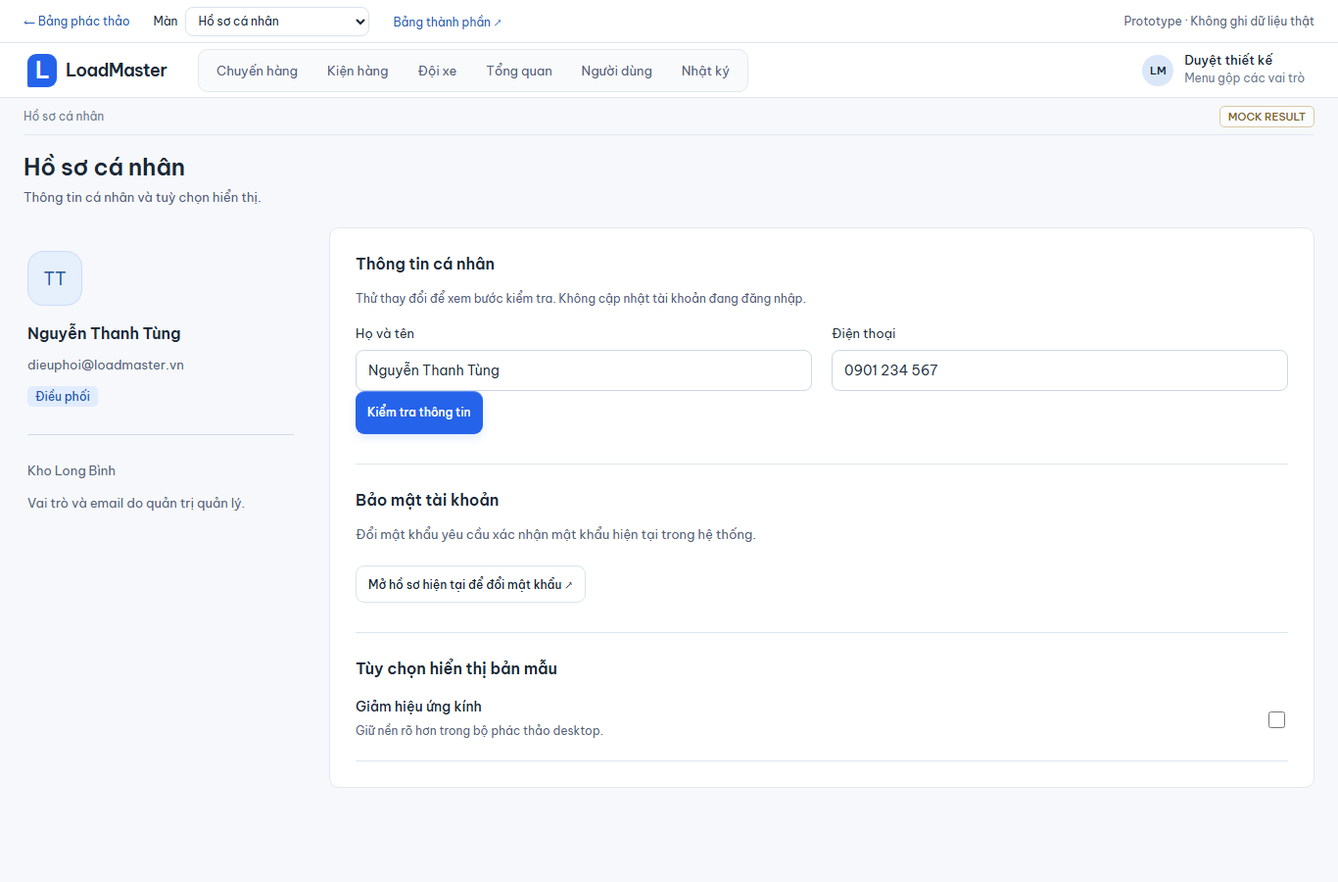
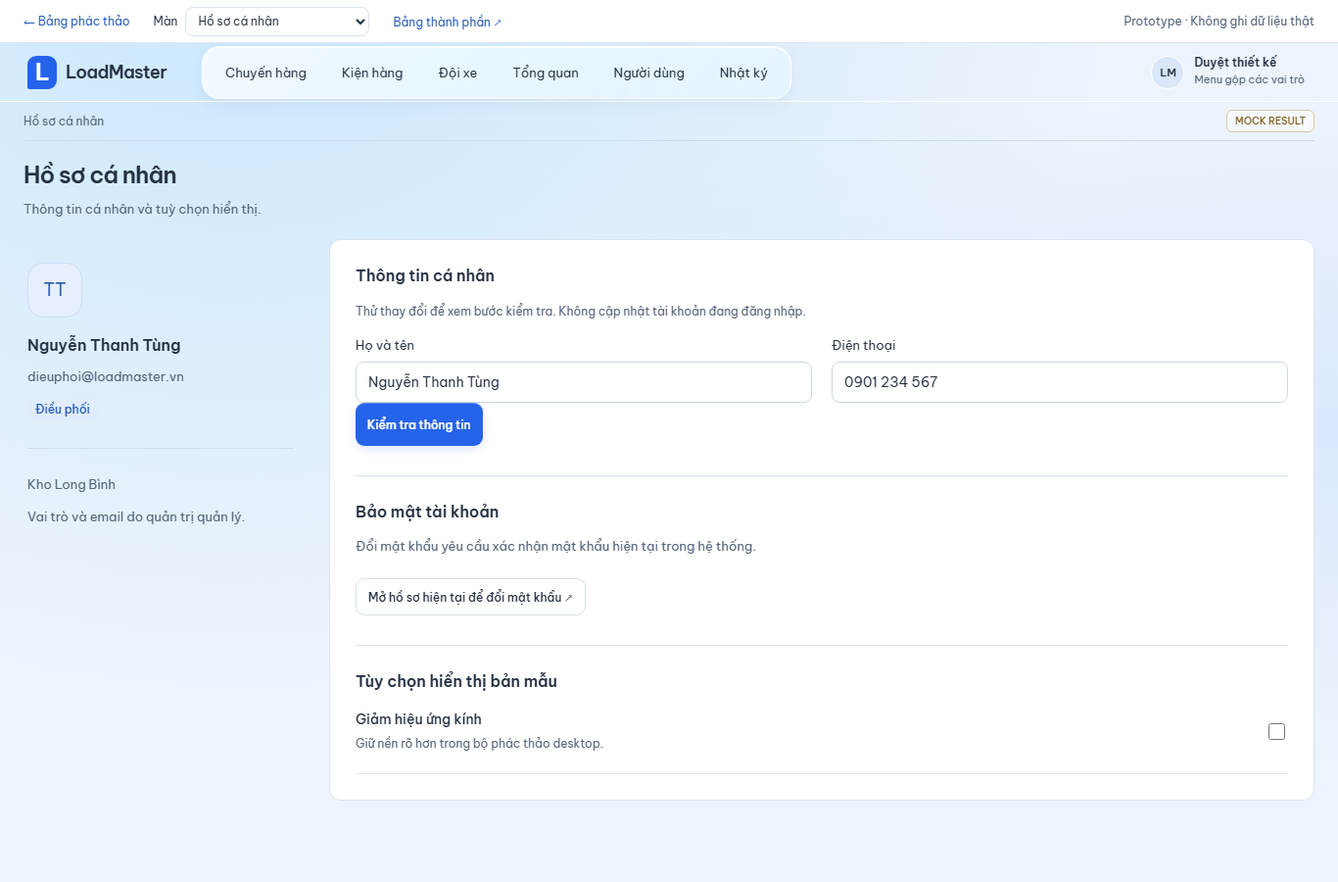
Revert "design(v2): polish màn Danh sách chuyến cho vận hành thật"
This reverts commit e58b79767d31db504e77cd240d4d9d727fd5e893.

diff --git a/design/v2/screens.css b/design/v2/screens.css
@@ -1,129 +1,72 @@
-/* Token cục bộ của bộ màn desktop. Không ghi đè token production. */
-:where(.screen-suite) {
-  --page: #f6f8fb; --surface: #fff; --subtle: #f9fafc;
-  --edge: #e3e8f0; --edge-strong: #d3dbe6;
-  --ink-1: #1b2736; --ink-2: #51607a; --ink-3: #6b7a90;
-  --brand: #2563eb; --brand-hover: #1d4ed8; --brand-soft: #eff5ff;
-}
-.screen-suite { background: var(--page); color: var(--ink-1); font-size: 14px; }
-.screen-suite .badge { padding: 3px 8px; border-radius: 5px; font-size: 12px; font-weight: 500; }
-.screen-suite .badge.mock { font-size: 11px; }
-.screen-suite :focus-visible { outline: 2px solid var(--brand); outline-offset: 2px; border-radius: 4px; }
-/* Ô tìm đã có vòng focus ở lớp bọc — không vẽ thêm vòng thứ hai quanh input. */
-.screen-suite .search input:focus-visible { outline: none; }
+.screen-suite { background: #edf3fb; color: var(--ink); font-size: 14px; }
 .suite-review { min-height: 44px; display: flex; align-items: center; gap: 24px; padding: 6px 24px; background: white; border-bottom: 1px solid var(--line); font-size: 12px; }
 .suite-review > span { margin-left: auto; color: var(--muted); }
 .suite-review label { display: flex; align-items: center; gap: 8px; }
 .suite-review select { max-width: 240px; min-height: 30px; }
 .suite-review > a { color: #245ab7; }
-.suite-shell { min-height: calc(100vh - 44px); background: var(--page); }
-.suite-rail { display: flex; align-items: center; gap: 28px; height: 56px; padding: 0 24px; background: var(--surface); border-bottom: 1px solid var(--edge); }
+.suite-shell { min-height: calc(100vh - 44px); background: radial-gradient(ellipse at 18% -12%,#c9e7ff,transparent 56%),radial-gradient(ellipse at 102% 46%,#dbe8ff,transparent 52%),#edf4fb; }
+.suite-rail { display: flex; align-items: center; gap: 32px; height: 60px; padding: 6px 24px; border-bottom: 1px solid #fff; }
 .suite-rail .brand { flex-shrink: 0; padding: 0 4px; }
 .suite-caption { font-size: 12px; color: var(--muted); line-height: 1.6; }
-.suite-nav { display: flex; gap: 2px; padding: 4px; border-radius: 10px; background: var(--subtle); border: 1px solid var(--edge); box-shadow: none; }
-.suite-nav a { min-height: 34px; padding: 0 14px; gap: 0; border-radius: 7px; white-space: nowrap; font-size: 13px; color: var(--ink-2); transition: background 130ms, color 130ms; }
-.suite-nav a:hover { background: #fff; color: var(--ink-1); }
-.suite-nav [aria-current] { background: var(--surface); border: 1px solid var(--edge-strong); color: var(--brand); font-weight: 600; box-shadow: none; }
+.suite-nav { display: flex; padding: 5px; border-radius: 18px; background: linear-gradient(130deg,#ffffffc2,#ffffff45); border: 1px solid #fff; backdrop-filter: blur(16px) saturate(1.35); box-shadow: 0 6px 16px #33517a10,inset 0 1px 0 #fff; }
+.suite-nav a { min-height: 42px; padding: 0 18px; gap: 0; border-radius: 13px; white-space: nowrap; }
+.suite-nav a:hover { background: #ffffff80; }
+.suite-nav [aria-current] { background: linear-gradient(125deg,#fffffff0,#ffffff75); border: 1px solid #fff; box-shadow: 0 3px 8px #46658718; }
 .suite-person { margin-left: auto; display: flex; align-items: center; gap: 10px; padding: 6px 10px; border-radius: 12px; color: inherit; flex-shrink: 0; }
-.suite-person:hover { background: var(--subtle); }
-.suite-person strong { display: block; font-size: 13px; font-weight: 500; }
-.suite-person small { display: block; color: var(--ink-3); font-size: 12px; margin-top: 1px; }
+.suite-person:hover { background: #ffffff7a; }
+.suite-person strong { display: block; font-size: 12px; }
+.suite-person small { display: block; color: var(--muted); font-size: 11px; margin-top: 2px; }
 .suite-work { min-width: 0; }
-.suite-top { display: flex; align-items: center; justify-content: space-between; min-height: 38px; margin: 0 24px; border-bottom: 1px solid var(--edge); font-size: 12px; color: var(--ink-3); }
-.suite-main { padding: 16px 24px 28px; }
-.suite-title { display: flex; justify-content: space-between; align-items: flex-start; margin-bottom: 16px; gap: 24px; }
-.suite-title h1 { font-size: 21px; line-height: 1.35; font-weight: 600; letter-spacing: -.2px; margin: 0; }
-.suite-lede { margin: 5px 0 0; max-width: 68ch; color: var(--ink-2); font-size: 13px; line-height: 1.6; }
-.suite-title .button { min-height: 38px; padding: 0 16px; border-radius: 8px; font-size: 13px; font-weight: 600; flex-shrink: 0; }
-/* Khối tổng hợp: chỉ số đếm được, không nhét ngày vào làm KPI thứ tư. */
-.summary-block { display: flex; align-items: center; min-height: 64px; padding: 10px 20px; border: 1px solid var(--edge); border-radius: 10px; background: var(--surface); margin-bottom: 16px; }
-.summary-block.has-note > p { flex: 1 1 auto; margin: 0; padding-left: 24px; border-left: 1px solid var(--edge); font-size: 12px; color: var(--ink-3); line-height: 1.6; }
-.summary-block > div { flex: 0 1 200px; display: grid; gap: 2px; align-content: center; padding: 0 24px; border-left: 1px solid var(--edge); }
+.suite-top { display: flex; align-items: center; justify-content: space-between; min-height: 40px; margin: 0 24px; border-bottom: 1px solid #c9dced; font-size: 12px; color: var(--muted); }
+.suite-main { padding: 18px 24px 28px; }
+.suite-title { display: flex; justify-content: space-between; align-items: flex-end; margin-bottom: 20px; gap: 24px; }
+.suite-title h1 { font-size: 24px; margin: 0; }
+.suite-lede { margin: 6px 0 0; max-width: 62ch; color: var(--muted); font-size: 13px; line-height: 1.7; }
+.suite-title .button { min-height: 40px; font-size: 14px; flex-shrink: 0; }
+/* Khối tổng hợp dùng chung: kính, số cùng màu mực, đơn vị nhỏ hơn. */
+.summary-block { display: flex; padding: 18px 24px; border: 1px solid #fff; border-radius: 16px; background: var(--glass-fill); box-shadow: var(--glass-edge),var(--glass-lift); margin-bottom: 22px; }
+.summary-block > div { flex: 1; display: grid; gap: 6px; align-content: start; padding: 0 22px; border-left: 1px solid #ccdbeb; }
 .summary-block > div:first-child { padding-left: 0; border-left: 0; }
-.summary-block span { color: var(--ink-2); font-size: 13px; order: 2; }
-.summary-block strong { font-size: 22px; font-weight: 600; color: var(--ink-1); font-variant-numeric: tabular-nums; line-height: 1.2; order: 1; }
-.summary-block strong em { font-style: normal; font-size: 13px; font-weight: 400; color: var(--ink-2); margin-left: 4px; }
-.summary-block small { color: var(--ink-3); font-size: 12px; order: 3; }
-.source-note { margin: 0 0 20px; color: var(--ink-3); font-size: 12px; line-height: 1.6; }
+.summary-block span { color: var(--muted); font-size: 12px; }
+.summary-block strong { font-family: 'JetBrains Mono',monospace; font-size: 28px; font-weight: 500; color: var(--ink); font-variant-numeric: tabular-nums; line-height: 1.15; }
+.summary-block strong em { font-style: normal; font-size: 13px; color: var(--muted); margin-left: 5px; }
+.summary-block small { color: var(--muted); font-size: 11px; line-height: 1.6; }
+.summary-block.has-note > p { flex: 1.3; margin: 0; padding-left: 22px; border-left: 1px solid #ccdbeb; font-size: 12px; color: var(--muted); line-height: 1.8; align-self: center; }
 /* Bề mặt đọc: nền rõ, không kính lồng trong kính. */
-.surface-panel { background: var(--surface); border: 1px solid var(--edge); border-radius: 10px; }
-.panel-head { display: flex; align-items: center; justify-content: space-between; gap: 16px; padding: 14px 16px; border-bottom: 1px solid var(--edge); }
-.panel-head h2 { font-size: 15px; font-weight: 600; margin: 0; }
-/* ---- Danh sách chuyến: bảng là nhân vật chính ---- */
-.dispatch-grid { display: grid; grid-template-columns: minmax(0,1fr) 300px; gap: 16px; align-items: start; }
-.paper { background: var(--surface); border: 1px solid var(--edge); border-radius: 10px; min-width: 0; overflow: hidden; }
-
-/* Thanh công cụ: tìm ~45%, mỗi ô lọc có nhãn, mật độ nói rõ là mật độ. */
-.list-tools { display: flex; align-items: flex-end; gap: 12px; padding: 12px 16px; border-bottom: 1px solid var(--edge); }
-.list-tools .search { flex: 0 1 45%; min-width: 220px; min-height: 36px; border-color: var(--edge-strong); border-radius: 8px; color: var(--ink-3); }
-.list-tools .search input { font-size: 13px; color: var(--ink-1); }
-.list-tools .search input::placeholder { color: var(--ink-3); }
-.tool-field { display: grid; gap: 4px; font-size: 12px; color: var(--ink-2); }
-.tool-field select { min-width: 140px; min-height: 36px; border-radius: 8px; border-color: var(--edge-strong); font-size: 13px; color: var(--ink-1); }
-.tool-density { margin-left: auto; }
-.tool-density select { min-width: 120px; }
-
-/* Bộ lọc đang bật phải nhìn thấy được, không để người dùng quên. */
-.filter-context { display: flex; align-items: center; flex-wrap: wrap; gap: 8px; padding: 10px 16px; background: var(--brand-soft); border-bottom: 1px solid var(--edge); font-size: 12px; }
-.filter-context > span { color: var(--ink-2); }
-.filter-chip { display: inline-flex; align-items: center; gap: 6px; min-height: 26px; padding: 0 8px; border: 1px solid #c7dbfb; border-radius: 6px; background: var(--surface); font-size: 12px; color: var(--ink-1); }
-.filter-chip:hover { border-color: var(--brand); color: var(--brand); }
-.filter-chip span { color: var(--ink-3); font-size: 14px; line-height: 1; }
-.filter-clear { background: none; padding: 0 4px; font-size: 12px; color: var(--brand); text-decoration: underline; }
-
+.surface-panel { background: #fff; border: 1px solid #dbe5f0; border-radius: 14px; }
+.panel-head { display: flex; align-items: center; justify-content: space-between; gap: 16px; padding: 16px 20px; border-bottom: 1px solid #e6edf5; }
+.panel-head h2 { font-size: 15px; margin: 0; }
+.summary-strip { display: grid; grid-template-columns: 1fr 1fr 1fr 1.4fr; padding: 22px 26px; border: 1px solid white; border-radius: 16px; background: var(--glass-fill); box-shadow: var(--glass-edge),var(--glass-lift); margin-bottom: 24px; gap: 24px; }
+.summary-strip > div { display: grid; gap: 8px; padding-right: 20px; border-right: 1px solid #cad9e9; }
+.summary-strip span { color: var(--muted); font-size: 12px; }
+.summary-strip strong { font-size: 30px; font-weight: 600; font-variant-numeric: tabular-nums; }
+.summary-strip > p { font-size: 13px; align-self: center; line-height: 1.8; }
+.summary-strip small { display: block; color: var(--muted); font-size: 11px; }
+.dispatch-grid { display: grid; grid-template-columns: minmax(0,1fr) 220px; gap: 20px; }
+.paper { background: white; border: 1px solid #dce5ef; border-radius: 12px; min-width: 0; overflow: hidden; }
+.list-tools { display: flex; gap: 10px; padding: 16px; border-bottom: 1px solid var(--line); }
+.list-tools .search input { font-size: 13px; }
 .suite-table-scroll { overflow: auto; }
-.trip-table { min-width: 760px; }
-.trip-table th { height: 40px; padding: 0 14px; background: var(--subtle); border-block: 1px solid var(--edge); font-size: 12px; font-weight: 600; color: var(--ink-2); }
-.trip-table td { padding: 12px 14px; border-bottom: 1px solid var(--edge); font-size: 13px; vertical-align: middle; }
-.trip-table tbody tr { transition: background 120ms; }
-.trip-table tbody tr:hover { background: var(--subtle); }
-.trip-table th:first-child, .trip-table td:first-child { padding-left: 16px; }
-.trip-table th:first-child { width: 34%; }
-.trip-table .col-date { width: 108px; white-space: nowrap; }
-.trip-table .col-vehicle { width: 20%; }
-.trip-table td small { display: block; font-size: 12px; color: var(--ink-3); margin-top: 3px; line-height: 1.5; }
-.trip-table td strong { font-size: 13px; font-weight: 500; color: var(--ink-1); }
-/* Cột số căn phải để so sánh theo cột dọc. */
-.trip-table th.num, .trip-table td.num { text-align: right; width: 118px; }
-.trip-table td.num strong { font-variant-numeric: tabular-nums; }
-.trip-table td.num strong em { font-style: normal; font-weight: 400; color: var(--ink-2); }
-.trip-table th.num button { flex-direction: row-reverse; }
-/* Mũi tên sắp xếp: mờ khi chưa dùng, hiện khi hover, giữ khi đang sắp. */
-.trip-table th.sortable button { color: inherit; font-weight: inherit; min-height: 24px; }
-.trip-table th.sortable button span { opacity: 0; color: var(--ink-3); transition: opacity 120ms; }
-.trip-table th.sortable:hover button span, .trip-table th.sortable button:focus-visible span { opacity: 1; }
-.trip-table th[aria-sort=ascending] button, .trip-table th[aria-sort=descending] button { color: var(--brand); }
-.trip-table th[aria-sort=ascending] button span, .trip-table th[aria-sort=descending] button span { opacity: 1; color: var(--brand); }
-.trip-table th[aria-sort=ascending] button span::before { content: '↑'; }
-.trip-table th[aria-sort=descending] button span::before { content: '↓'; }
-.trip-table th[aria-sort=ascending] button span, .trip-table th[aria-sort=descending] button span { font-size: 0; }
-.trip-table th[aria-sort] button span::before { font-size: 12px; }
-.trip-row-link { display: grid; gap: 3px; text-align: left; background: none; padding: 0; line-height: 1.45; }
-.trip-row-link strong { white-space: normal; font-size: 13px; font-weight: 500; }
-.trip-row-link:hover strong { color: var(--brand); text-decoration: underline; text-underline-offset: 2px; }
-.trip-row-link .mono { font-size: 12px; color: var(--ink-3); }
-.trip-table[data-density=compact] td { padding-block: 7px; }
-.trip-table[data-density=roomy] td { padding-block: 18px; }
-.trip-table .empty { padding: 32px 16px; text-align: center; color: var(--ink-2); }
-.list-foot { padding: 12px 16px; color: var(--ink-2); font-size: 12px; border-top: 1px solid var(--edge); }
-
-/* Rail "Cần xử lý": bề mặt riêng, đếm được việc, mỗi mục có lối đi tiếp. */
-.attention-panel { background: var(--surface); border: 1px solid var(--edge); border-radius: 10px; overflow: hidden; }
-.attention-panel > summary { display: flex; align-items: center; gap: 8px; min-height: 44px; padding: 0 16px; font-size: 14px; font-weight: 600; color: var(--ink-1); cursor: pointer; list-style: none; }
-.attention-panel > summary::-webkit-details-marker { display: none; }
-.attention-panel > summary b { display: inline-grid; place-items: center; min-width: 20px; height: 20px; padding: 0 6px; border-radius: 10px; background: #fdf0d6; color: #8a5200; font-size: 12px; font-weight: 600; }
-.attention-body { padding: 0 16px 16px; }
-.attention-lede { margin: 0 0 12px; font-size: 12px; line-height: 1.6; color: var(--ink-2); }
-.attention-list { list-style: none; margin: 0 0 12px; padding: 0; display: grid; gap: 12px; }
-.attention-list li { padding: 12px; border: 1px solid var(--edge); border-radius: 8px; background: var(--subtle); }
-.attention-top { display: flex; align-items: center; justify-content: space-between; gap: 8px; margin-bottom: 6px; }
-.attention-top .mono { font-size: 12px; color: var(--ink-2); }
-.attention-list p { margin: 0 0 8px; font-size: 13px; line-height: 1.55; color: var(--ink-1); }
-.attention-action { background: none; padding: 0; font-size: 13px; font-weight: 500; color: var(--brand); }
-.attention-action:hover { text-decoration: underline; text-underline-offset: 2px; }
-.attention-body > .button { width: 100%; min-height: 36px; border-radius: 8px; font-size: 13px; }
-.quiet-note { font-size: 12px; line-height: 1.7; color: var(--ink-2); margin: 16px 0; }
-.quiet-note strong { display: block; color: var(--ink-1); margin-bottom: 6px; }
+.trip-table { min-width: 710px; }
+.trip-table th { font-size: 12px; padding: 14px; }
+.trip-table td { font-size: 13px; padding: 16px 14px; }
+.trip-table th:first-child { width: 38%; }
+.trip-table th:nth-child(2) { width: auto; }
+.trip-table td small { display: block; font-size: 11px; color: var(--muted); margin-top: 6px; }
+.trip-table td strong { font-weight: 500; white-space: nowrap; }
+.trip-row-link { display: grid; gap: 8px; text-align: left; background: none; padding: 0; line-height: 1.5; }
+.trip-row-link strong { white-space: normal !important; }
+.trip-row-link .mono { font-size: 11px; color: var(--muted); }
+.trip-table.roomy td { padding-block: 26px; }
+.list-foot { padding: 14px 16px; color: var(--muted); font-size: 12px; }
+.attention-panel { padding-top: 6px; }
+.attention-panel h2 { font-size: 16px; line-height: 1.5; margin: 8px 0 20px; }
+.attention-item { display: grid; gap: 8px; padding: 16px 0; border-top: 1px solid #d6e1ed; background: none; text-align: left; line-height: 1.7; }
+.attention-item strong { font-size: 13px; font-weight: 500; }
+.attention-item span { font-size: 12px; color: var(--muted); }
+.attention-item b { font-size: 12px; color: #245ab7; font-weight: 500; }
+.quiet-note { font-size: 12px; line-height: 1.8; color: var(--muted); margin: 16px 0; }
+.quiet-note strong { display: block; color: var(--ink); margin-bottom: 6px; }
 .suite-dialog { border: 1px solid #d2deeb; background: white; color: var(--ink); border-radius: 16px; width: min(580px,calc(100vw - 24px)); max-height: 88dvh; padding: 24px; }
 .suite-dialog::backdrop { background: #182c4d66; }
 .suite-dialog header { display: flex; justify-content: space-between; align-items: center; gap: 16px; margin-bottom: 20px; }
@@ -269,11 +212,7 @@ summary { cursor: pointer; font-size: 13px; }
 .queue-empty { padding: 32px 16px; text-align: center; }
 .queue-empty p { color: var(--muted); line-height: 1.8; font-size: 14px; margin-top: 12px; }
 .full-button { width: 100%; }
-@media(min-width:1500px) { .dispatch-grid { grid-template-columns: minmax(0,1fr) 320px; } }
-@media(max-width:1439px) { .dispatch-grid { grid-template-columns: minmax(0,1fr) 260px; } }
-@media(max-width:1279px) { .dispatch-grid { grid-template-columns: 1fr; } .attention-panel { order: -1; } }
-@media(max-width:1200px) { .form-layout,.optimization-layout { grid-template-columns: minmax(0,1fr) 230px; gap: 20px; } .planner-grid { grid-template-columns: minmax(0,1fr) 250px; } }
-@media(max-width:1023px) { .suite-rail { height: auto; flex-wrap: wrap; gap: 10px 16px; padding: 10px 16px; } .suite-rail .brand { font-size: 15px; } .suite-nav { order: 3; width: 100%; overflow-x: auto; } .suite-nav a { padding: 0 12px; } }
-@media(max-width:950px) { .suite-main { padding: 20px; } .summary-block > div { flex: 1 1 0; padding-inline: 16px; } .form-layout,.optimization-layout { grid-template-columns: 1fr; } .planner-grid { grid-template-columns: 1fr; } .mobile-stage { grid-template-columns: 280px 390px; gap: 28px; } }
-@media(max-width:760px) { .suite-review { flex-wrap: wrap; gap: 10px; padding: 10px 14px; } .suite-review > span { display: none; } .suite-review select { max-width: 190px; } .suite-rail { padding: 10px 14px; } .suite-person { display: none; } .suite-nav a { font-size: 12px; } .suite-top { margin-inline: 14px; } .summary-block { flex-wrap: wrap; gap: 16px 0; padding: 16px; } .summary-block > div { flex-basis: 45%; } .summary-block strong { font-size: 24px; } .summary-block.has-note > p { flex-basis: 100%; padding-left: 0; border-left: 0; } .suite-main { padding: 20px 14px; } .suite-title { flex-wrap: wrap; } .suite-title h1 { font-size: 24px; } .summary-block { padding: 12px 14px; } .summary-block > div { padding-inline: 12px; } .summary-block strong { font-size: 20px; } .list-tools { flex-wrap: wrap; } .list-tools .search { flex-basis: 100%; } .list-tools { align-items: stretch; } .tool-density { margin-left: 0; } .form-paper { padding: 20px 16px; } .field-grid { grid-template-columns: 1fr; } .attached-data { flex-wrap: wrap; } .form-actions small { flex-basis: 100%; } .editable-stops { margin-inline: -4px; } .editable-stops li { gap: 8px; } .editable-stops button { width: 38px; flex-shrink: 0; } .input-review .review-facts { gap: 10px; } .input-review .review-facts dd { font-size: 21px; } .planner-stage { min-height: 460px; } .planner-stage > img { width: 900px; height: 563px; } .planner-inspector { padding: 20px; } .mobile-stage { display: block; padding: 0; } .mobile-notes { display: none; } .phone-app { width: 100%; border-radius: 0; border: 0; box-shadow: none; } .phone-header { min-height: 64px; } .phone-content { padding: 18px 16px; } .suite-dialog .button { min-height: 48px; } .suite-dialog input,.suite-dialog textarea { font-size: 16px; } }
+@media(max-width:1200px) { .dispatch-grid { grid-template-columns: 1fr; } .attention-panel { display: grid; grid-template-columns: 1fr 1fr; gap: 16px; } .attention-panel > .suite-caption,.attention-panel > h2 { grid-column: 1/-1; margin: 0; } .form-layout,.optimization-layout { grid-template-columns: minmax(0,1fr) 230px; gap: 20px; } .planner-grid { grid-template-columns: minmax(0,1fr) 250px; } }
+@media(max-width:950px) { .suite-rail { gap: 20px; padding-inline: 16px; } .suite-rail .brand { font-size: 15px; } .suite-nav a { padding: 0 13px; } .suite-main { padding: 20px; } .summary-strip { grid-template-columns: repeat(3,1fr); } .summary-strip > p { grid-column: 1/-1; } .form-layout,.optimization-layout { grid-template-columns: 1fr; } .planner-grid { grid-template-columns: 1fr; } .mobile-stage { grid-template-columns: 280px 390px; gap: 28px; } }
+@media(max-width:760px) { .suite-review { flex-wrap: wrap; gap: 10px; padding: 10px 14px; } .suite-review > span { display: none; } .suite-review select { max-width: 190px; } .suite-rail { height: auto; flex-wrap: wrap; gap: 12px; padding: 12px 14px; } .suite-person { display: none; } .suite-nav { order: 2; width: 100%; overflow-x: auto; } .suite-nav a { font-size: 12px; padding: 0 12px; } .suite-top { margin-inline: 14px; } .summary-block { flex-wrap: wrap; gap: 16px 0; padding: 16px; } .summary-block > div { flex-basis: 45%; } .summary-block strong { font-size: 24px; } .summary-block.has-note > p { flex-basis: 100%; padding-left: 0; border-left: 0; } .suite-main { padding: 20px 14px; } .suite-title { flex-wrap: wrap; } .suite-title h1 { font-size: 24px; } .summary-strip { padding: 18px; gap: 16px; } .summary-strip > div { padding-right: 8px; } .summary-strip strong { font-size: 24px; } .list-tools { flex-wrap: wrap; } .list-tools .search { flex-basis: 100%; } .attention-panel { display: block; } .attention-panel h2 { margin-top: 10px; } .form-paper { padding: 20px 16px; } .field-grid { grid-template-columns: 1fr; } .attached-data { flex-wrap: wrap; } .form-actions small { flex-basis: 100%; } .editable-stops { margin-inline: -4px; } .editable-stops li { gap: 8px; } .editable-stops button { width: 38px; flex-shrink: 0; } .input-review .review-facts { gap: 10px; } .input-review .review-facts dd { font-size: 21px; } .planner-stage { min-height: 460px; } .planner-stage > img { width: 900px; height: 563px; } .planner-inspector { padding: 20px; } .mobile-stage { display: block; padding: 0; } .mobile-notes { display: none; } .phone-app { width: 100%; border-radius: 0; border: 0; box-shadow: none; } .phone-header { min-height: 64px; } .phone-content { padding: 18px 16px; } .suite-dialog .button { min-height: 48px; } .suite-dialog input,.suite-dialog textarea { font-size: 16px; } }
 @media(max-width:760px) { .phone-app { height: calc(100dvh - 51px); } }

diff --git a/design/v2/screens-dispatch.js b/design/v2/screens-dispatch.js
@@ -1,87 +1,23 @@
 import { trips } from './screens.mock.js';
 import { packages, stops, addresses } from './trip-detail.mock.js';
-import { $, fmt, escape, href, badge, link, shell, dialog, summaryBlock } from './screen-ui.js';
+import { $, fmt, escape, href, badge, link, shell, dialog } from './screen-ui.js';
 import { packageDetail } from './package-detail.js';
 const totalWeight = packages.reduce((n, p) => n + p.kg * p.quantity, 0);
 const normalize = s => s.normalize('NFD').replace(/[\u0300-\u036f]/g, '').replace(/đ/gi, 'd').toLowerCase();
 const summary = () => `<dl class="review-facts"><div><dt>Kiện hàng</dt><dd>132 <small>/ 6 loại</small></dd></div><div><dt>Khối lượng</dt><dd>${fmt.format(totalWeight)} <small>kg</small></dd></div><div><dt>Điểm giao</dt><dd>4</dd></div></dl>`;
 
 export function tripList() {
-  const active = trips.filter(t => ['loading', 'delivering'].includes(t.state)).length;
-  const attention = trips.filter(t => ['stale', 'optimized'].includes(t.state)).length;
-  const dates = [...new Set(trips.map(t => t.date))];
-  const attentionTrips = trips.filter(t => ['stale', 'optimized'].includes(t.state));
-  const order = ['draft', 'optimized', 'stale', 'approved', 'loading', 'loaded', 'delivering'];
-  const sort = { key: '', dir: 'ascending' };
-  const sortHead = (key, label, extra = '') => `<th scope="col" class="sortable ${extra}" data-sort="${key}" aria-sort="none"><button type="button">${label}<span aria-hidden="true">↕</span></button></th>`;
-
-  $('screen-root').innerHTML = shell('trips', `${summaryBlock([
-    { label: 'Chuyến trong kỳ', value: trips.length },
-    { label: 'Đang thực hiện', value: active },
-    { label: 'Cần xử lý', value: attention },
-  ], 'Kỳ 22–24/09/2026 · trích từ dữ liệu seed, không phải báo cáo toàn đội xe.')}<div class="dispatch-grid"><section class="paper"><div class="list-tools"><label class="search"><input id="trip-search" placeholder="Tìm mã chuyến, tuyến giao hoặc phương tiện…" aria-label="Tìm chuyến"></label><label class="tool-field">Trạng thái<select id="trip-status"><option value="all">Mọi trạng thái</option><option value="attention">Cần xử lý</option><option value="active">Đang thực hiện</option></select></label><label class="tool-field">Ngày chạy<select id="trip-date"><option value="all">Mọi ngày</option>${dates.map(d => `<option value="${d}">${d}</option>`).join('')}</select></label><label class="tool-field tool-density">Mật độ<select id="trip-density"><option value="compact">Gọn</option><option value="default" selected>Mặc định</option><option value="roomy">Thoáng</option></select></label></div><div class="filter-context" id="filter-context" hidden></div><div class="suite-table-scroll"><table class="trip-table" data-density="default"><thead><tr><th scope="col">Chuyến / tuyến giao</th>${sortHead('date', 'Ngày chạy', 'col-date')}<th scope="col" class="col-vehicle">Phương tiện</th>${sortHead('count', 'Hàng', 'num')}${sortHead('state', 'Trạng thái')}</tr></thead><tbody id="trip-rows"></tbody></table></div><footer class="list-foot" id="trip-count" aria-live="polite"></footer></section><details class="attention-panel" id="attention-panel" open><summary><span>Cần xử lý</span><b>${attentionTrips.length}</b></summary><div class="attention-body"><p class="attention-lede">Hoàn tất các mục này trước khi nhân viên kho bắt đầu xếp.</p><ul class="attention-list">${attentionTrips.map(t => `<li><div class="attention-top"><span class="mono">${t.id}</span>${badge(t.label, t.tone)}</div><p>${t.state === 'stale' ? 'Dữ liệu kiện thay đổi sau khi duyệt.' : escape(t.name)}</p><button type="button" class="attention-action" data-attention-trip="${t.id}">Xem chuyến <span aria-hidden="true">→</span></button></li>`).join('')}</ul><button type="button" class="button secondary" id="attention-filter">Lọc ${attentionTrips.length} chuyến cần xử lý</button></div></details></div>${dialog('trip-preview', 'Thông tin chuyến', '<div id="trip-preview-body"></div>')}`, link('＋ Tạo chuyến', 'create', true));
-
-  function openTrip(id) {
-    const t = trips.find(x => x.id === id);
-    if (t.id === 'TRIP-2026-0914') { location.href = './trip-detail.html?layout=b'; return; }
-    $('trip-preview-body').innerHTML = `<p class="mono">${t.id}</p><h3>${escape(t.name)}</h3>${badge(t.label, t.tone)}<dl><div><dt>Hàng hoá</dt><dd>${t.count} kiện / ${t.stops} điểm</dd></div><div><dt>Ngày chạy</dt><dd>${t.date}</dd></div></dl><a class="button secondary" href="/chuyen/${t.id}">Mở chuyến trong FE hiện tại ↗</a>`;
-    $('trip-preview').showModal();
-  }
-
-  function sortRows(rows) {
-    if (!sort.key) return rows;
-    const sign = sort.dir === 'ascending' ? 1 : -1;
-    const iso = d => d.split('/').reverse().join('');
-    return [...rows].sort((a, b) => sign * (sort.key === 'count' ? a.count - b.count
-      : sort.key === 'state' ? order.indexOf(a.state) - order.indexOf(b.state)
-        : iso(a.date).localeCompare(iso(b.date))));
-  }
-
-  function renderChips(q, filter, day) {
-    const chips = [];
-    if (q) chips.push([`Tìm: ${$('trip-search').value.trim()}`, () => { $('trip-search').value = ''; }]);
-    if (filter !== 'all') chips.push([`Trạng thái: ${$('trip-status').selectedOptions[0].textContent}`, () => { $('trip-status').value = 'all'; }]);
-    if (day !== 'all') chips.push([`Ngày chạy: ${day}`, () => { $('trip-date').value = 'all'; }]);
-    const box = $('filter-context');
-    box.hidden = !chips.length;
-    box.innerHTML = chips.length ? `<span>Đang lọc</span>${chips.map(([label], i) => `<button type="button" class="filter-chip" data-chip="${i}">${escape(label)}<span aria-hidden="true">×</span></button>`).join('')}<button type="button" class="filter-clear" id="filter-clear">Xoá bộ lọc</button>` : '';
-    box.querySelectorAll('[data-chip]').forEach(b => { b.onclick = () => { chips[Number(b.dataset.chip)][1](); render(); }; });
-    if (chips.length) $('filter-clear').onclick = () => { $('trip-search').value = ''; $('trip-status').value = 'all'; $('trip-date').value = 'all'; render(); };
-  }
-
+  $('screen-root').innerHTML = shell('trips', `<section class="summary-strip glass"><div><span>Chuyến trong mẫu</span><strong>${trips.length}</strong></div><div><span>Đang thực hiện</span><strong>${trips.filter(t => ['loading', 'delivering'].includes(t.state)).length}</strong></div><div><span>Cần xem phương án</span><strong>${trips.filter(t => ['stale', 'optimized'].includes(t.state)).length}</strong></div><p>22–24 tháng 9, 2026<br><small>Trích từ dữ liệu seed · Không phải báo cáo toàn đội xe</small></p></section><div class="dispatch-grid"><section class="paper"><div class="list-tools"><label class="search"><input id="trip-search" placeholder="Tìm mã chuyến hoặc tuyến giao…" aria-label="Tìm chuyến"></label><select id="trip-status" aria-label="Trạng thái"><option value="all">Mọi trạng thái</option><option value="attention">Cần xem phương án</option><option value="active">Đang thực hiện</option></select><button class="button secondary" id="trip-density">Gọn</button></div><div class="suite-table-scroll"><table class="trip-table"><thead><tr><th>Chuyến / tuyến giao</th><th>Ngày chạy</th><th>Phương tiện</th><th>Hàng</th><th>Trạng thái</th></tr></thead><tbody id="trip-rows"></tbody></table></div><footer class="list-foot" id="trip-count" aria-live="polite"></footer></section><aside class="attention-panel"><span class="suite-caption">Cần chú ý</span><h2>Trước khi bàn giao kho</h2><button id="attention-filter" class="attention-item"><strong>1 chuyến cần duyệt lại</strong><span>TRIP-013 · Dữ liệu thay đổi sau khi duyệt</span><b>Xem chuyến →</b></button><div class="attention-item"><strong>1 phương án chờ duyệt</strong><span>TRIP-012 · Bình Chánh → Biên Hoà</span></div><p class="quiet-note">Hoàn tất kiểm tra phương án trước khi nhân viên kho bắt đầu xếp.</p></aside></div>${dialog('trip-preview', 'Thông tin chuyến', '<div id="trip-preview-body"></div>')}`, link('＋ Tạo chuyến', 'create', true));
   function render() {
-    const q = normalize($('trip-search').value), filter = $('trip-status').value, day = $('trip-date').value;
-    const rows = sortRows(trips.filter(t => normalize(`${t.id} ${t.name} ${t.vehicle} ${t.plate}`).includes(q)
-      && (filter === 'all' || (filter === 'attention' ? ['stale', 'optimized'] : ['loading', 'delivering']).includes(t.state))
-      && (day === 'all' || t.date === day)));
-    $('trip-rows').innerHTML = rows.map(t => `<tr><td><button type="button" class="trip-row-link" data-trip="${t.id}"><strong>${escape(t.name)}</strong><span class="mono">${t.id}</span></button></td><td class="col-date mono">${t.date}</td><td class="col-vehicle"><strong>${t.vehicle}</strong><small>${t.plate ? `<span class="mono">${t.plate}</span>` : 'Chưa gán biển số'}</small></td><td class="num"><strong>${t.count}<em> kiện</em></strong><small>${t.stops} điểm giao</small></td><td>${badge(t.label, t.tone)}</td></tr>`).join('')
-      || '<tr><td colspan="5" class="empty">Không có chuyến khớp bộ lọc đang bật.</td></tr>';
-    $('trip-count').textContent = rows.length === trips.length
-      ? `Hiển thị 1–${rows.length} trên ${trips.length} chuyến`
-      : `Hiển thị ${rows.length} trên ${trips.length} chuyến`;
-    renderChips(q, filter, day);
+    const q = normalize($('trip-search').value), filter = $('trip-status').value;
+    const rows = trips.filter(t => normalize(`${t.id} ${t.name}`).includes(q) && (filter === 'all' || (filter === 'attention' ? ['stale', 'optimized'] : ['loading', 'delivering']).includes(t.state)));
+    $('trip-rows').innerHTML = rows.map(t => `<tr><td><button class="trip-row-link" data-trip="${t.id}"><strong>${t.name}</strong><span class="mono">${t.id}</span></button></td><td>${t.date}</td><td>${t.vehicle}<small>${t.plate || 'Xe theo danh mục mẫu'}</small></td><td><strong>${t.count} kiện</strong><small>${t.stops} điểm giao</small></td><td>${badge(t.label, t.tone)}</td></tr>`).join('') || '<tr><td colspan="5" class="empty">Không có chuyến phù hợp với bộ lọc.</td></tr>';
+    $('trip-count').textContent = `${rows.length} / ${trips.length} chuyến mẫu`;
   }
-
-  $('trip-search').addEventListener('input', render);
-  $('trip-status').addEventListener('change', render);
-  $('trip-date').addEventListener('change', render);
+  $('trip-search').addEventListener('input', render); $('trip-status').addEventListener('change', render);
   $('attention-filter').onclick = () => { $('trip-status').value = 'attention'; render(); };
-  $('trip-density').onchange = e => { document.querySelector('.trip-table').dataset.density = e.target.value; };
-  document.querySelectorAll('.trip-table th.sortable').forEach(th => {
-    th.querySelector('button').onclick = () => {
-      sort.dir = sort.key === th.dataset.sort && sort.dir === 'ascending' ? 'descending' : 'ascending';
-      sort.key = th.dataset.sort;
-      document.querySelectorAll('.trip-table th.sortable').forEach(o => o.setAttribute('aria-sort', 'none'));
-      th.setAttribute('aria-sort', sort.dir);
-      render();
-    };
-  });
-  $('trip-rows').onclick = e => { const b = e.target.closest('[data-trip]'); if (b) openTrip(b.dataset.trip); };
-  $('attention-panel').querySelectorAll('.attention-action').forEach(b => { b.onclick = () => openTrip(b.dataset.attentionTrip); });
-  // Dưới 1280px rail thu lại thành một dòng mở được, không bóp bảng.
-  const narrow = matchMedia('(max-width: 1279px)');
-  const fit = () => { $('attention-panel').open = !narrow.matches; };
-  narrow.addEventListener('change', fit); fit();
+  $('trip-density').onclick = e => { const spacious = document.querySelector('.trip-table').classList.toggle('roomy'); e.currentTarget.textContent = spacious ? 'Thoáng' : 'Gọn'; };
+  $('trip-rows').onclick = e => { const button = e.target.closest('[data-trip]'); if (!button) return; const t = trips.find(t => t.id === button.dataset.trip); if (t.id === 'TRIP-2026-0914') { location.href = './trip-detail.html?layout=b'; return; } $('trip-preview-body').innerHTML = `<p class="mono">${t.id}</p><h3>${t.name}</h3>${badge(t.label, t.tone)}<dl><div><dt>Hàng hoá</dt><dd>${t.count} kiện / ${t.stops} điểm</dd></div><div><dt>Ngày chạy</dt><dd>${t.date}</dd></div></dl><a class="button secondary" href="/chuyen/${t.id}">Mở chuyến trong FE hiện tại ↗</a>`; $('trip-preview').showModal(); };
   render();
 }
 

diff --git a/design/v2/screens.mock.js b/design/v2/screens.mock.js
@@ -1,11 +1,9 @@
 // Selected rows from seed-trips.ts, anchored to 22/09/2026 for this design review.
 // Counts are sums of seed line quantities (TRIP-013 includes staleEdit).
-// tone theo nghĩa vận hành: chờ người khác làm = warning, đã xong một chặng = success,
-// đang chạy = info, chưa bắt đầu = neutral. Không tô màu theo cảm tính.
 export const trips = [
-  { id: 'TRIP-2026-0914', name: 'Q.7 → Thủ Dầu Một → Dĩ An → Biên Hoà', date: '22/09/2026', vehicle: 'Hyundai HD210', plate: '60C-446.32', stops: 4, count: 132, state: 'approved', label: 'Chờ kho bắt đầu', tone: 'warning' },
+  { id: 'TRIP-2026-0914', name: 'Q.7 → Thủ Dầu Một → Dĩ An → Biên Hoà', date: '22/09/2026', vehicle: 'Hyundai HD210', plate: '60C-446.32', stops: 4, count: 132, state: 'approved', label: 'Chờ kho bắt đầu', tone: 'success' },
   { id: 'TRIP-009', name: 'Thủ Dầu Một → Sóng Thần', date: '22/09/2026', vehicle: 'VEHICLE-006', plate: '', stops: 3, count: 160, state: 'delivering', label: 'Đang giao', tone: 'info' },
-  { id: 'TRIP-010', name: 'Thủ Đức → An Phú → Phú Nhuận', date: '22/09/2026', vehicle: 'Isuzu NQR 550', plate: '51C-284.19', stops: 3, count: 210, state: 'loaded', label: 'Đã xếp xong', tone: 'success' },
+  { id: 'TRIP-010', name: 'Thủ Đức → An Phú → Phú Nhuận', date: '22/09/2026', vehicle: 'Isuzu NQR 550', plate: '51C-284.19', stops: 3, count: 210, state: 'loaded', label: 'Đã xếp xong', tone: 'info' },
   { id: 'TRIP-011', name: 'Tân Bình → Q.1 → Q.7', date: '22/09/2026', vehicle: 'VEHICLE-007', plate: '', stops: 4, count: 280, state: 'loading', label: 'Đang xếp', tone: 'info' },
   { id: 'TRIP-012', name: 'Bình Chánh → Biên Hoà', date: '23/09/2026', vehicle: 'VEHICLE-005', plate: '', stops: 2, count: 70, state: 'optimized', label: 'Chờ duyệt', tone: 'warning' },
   { id: 'TRIP-013', name: 'Biên Hoà → Long Bình Tân', date: '23/09/2026', vehicle: 'Truck 6m', plate: '', stops: 2, count: 206, state: 'stale', label: 'Cần duyệt lại', tone: 'warning' },

diff --git a/design/v2/desktop.css b/design/v2/desktop.css
@@ -121,7 +121,7 @@ meter::-webkit-meter-bar { background: #edf2fa; border: 0; }
 .empty-spec p { margin: 12px 0; font-size: 13px; color: var(--muted); line-height: 1.8; }
 .token-spec { margin-top: 24px; }
 .token-spec > h2 { padding: 24px; }
-.solid-desktop .suite-nav,.solid-desktop .summary-block,.solid-desktop .mini-glass,.solid-desktop .fleet-summary,.solid-desktop .dashboard-kpis { background: #fff; box-shadow: none; backdrop-filter: none; border-color: #d3dfed; }
+.solid-desktop .suite-nav,.solid-desktop .summary-block,.solid-desktop .summary-strip,.solid-desktop .mini-glass,.solid-desktop .fleet-summary,.solid-desktop .dashboard-kpis { background: #fff; box-shadow: none; backdrop-filter: none; border-color: #d3dfed; }
 .solid-desktop .suite-nav [aria-current] { background: #eaf2ff; box-shadow: none; border-color: #bfd3ef; }
 @media(max-width:1150px) { .workbench { grid-template-columns: minmax(0,1fr) 260px; gap: 16px; } .vehicle-workspace { grid-template-columns: 1fr; } .vehicle-drawing svg { max-width: 420px; } .dashboard-kpis { grid-template-columns: 1fr 1fr; gap: 24px; } .suite-main { padding: 22px 20px; } }
 @media(max-width:900px) { .workbench,.profile-layout,.insights-grid,.spec-grid { grid-template-columns: 1fr; } .workspace-intro,.comparison-context { flex-wrap: wrap; } .revision-heading { gap: 10px; padding: 16px; } .fleet-summary { grid-template-columns: 1fr 1fr; } }
